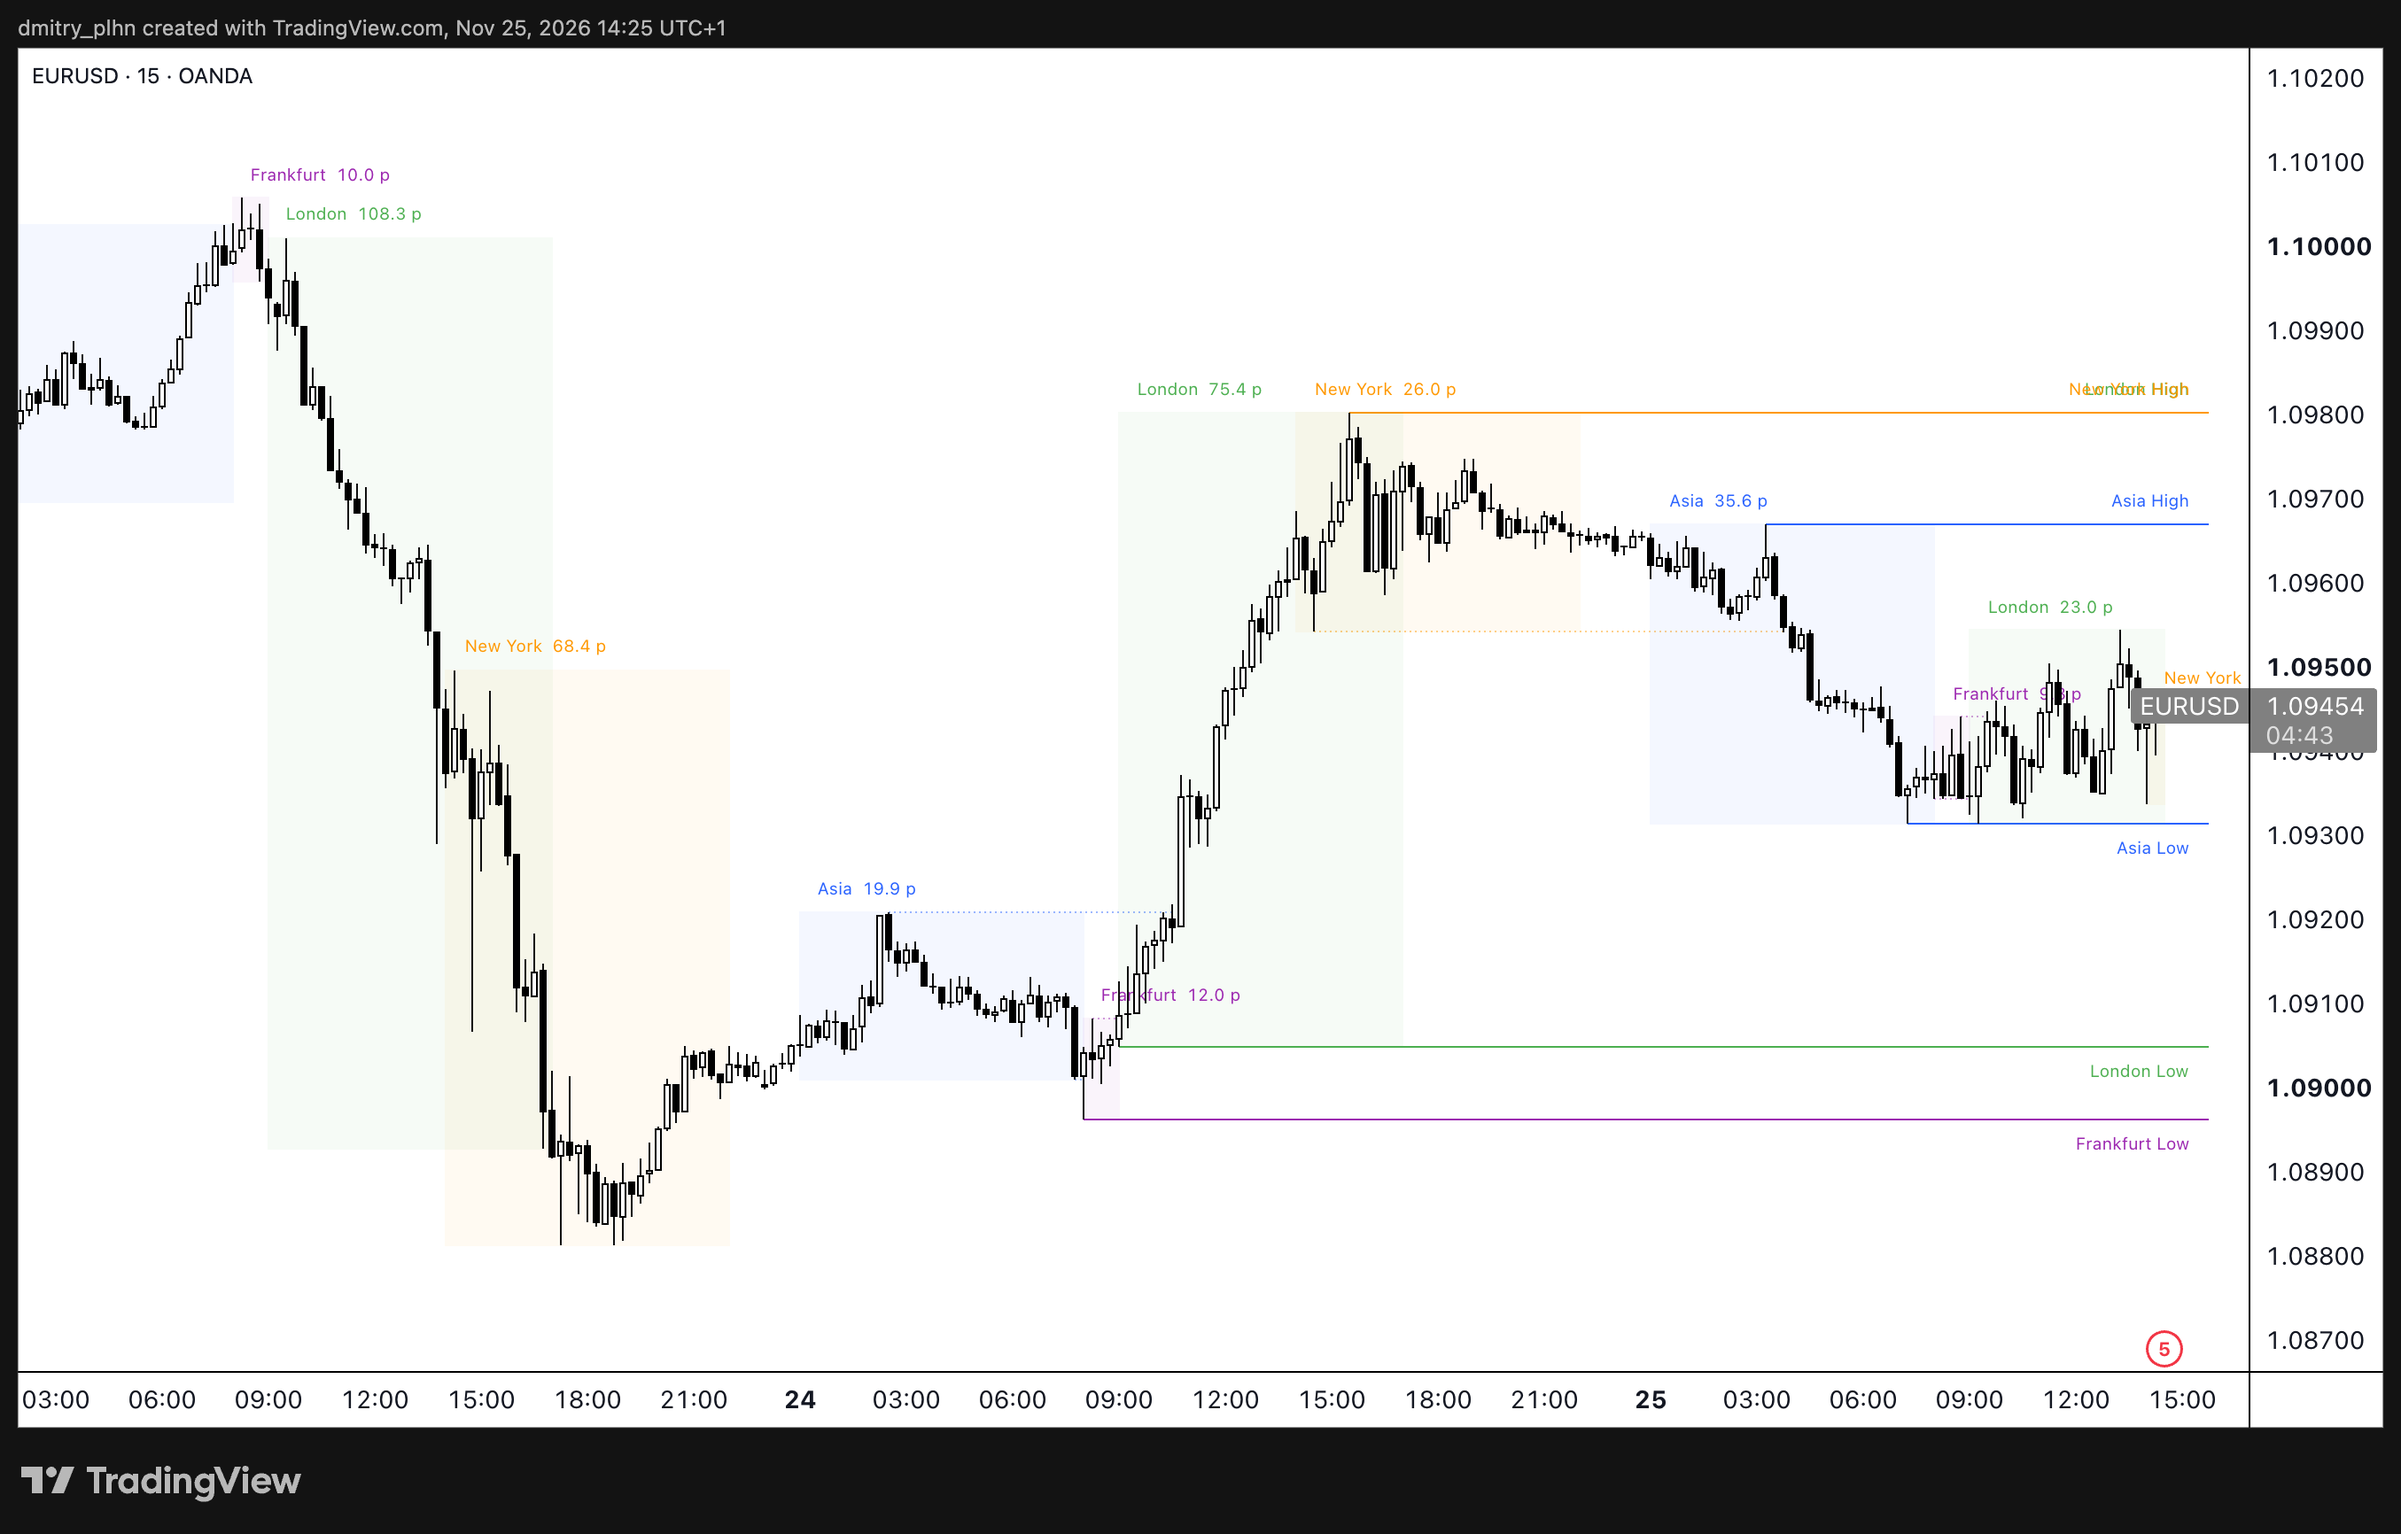
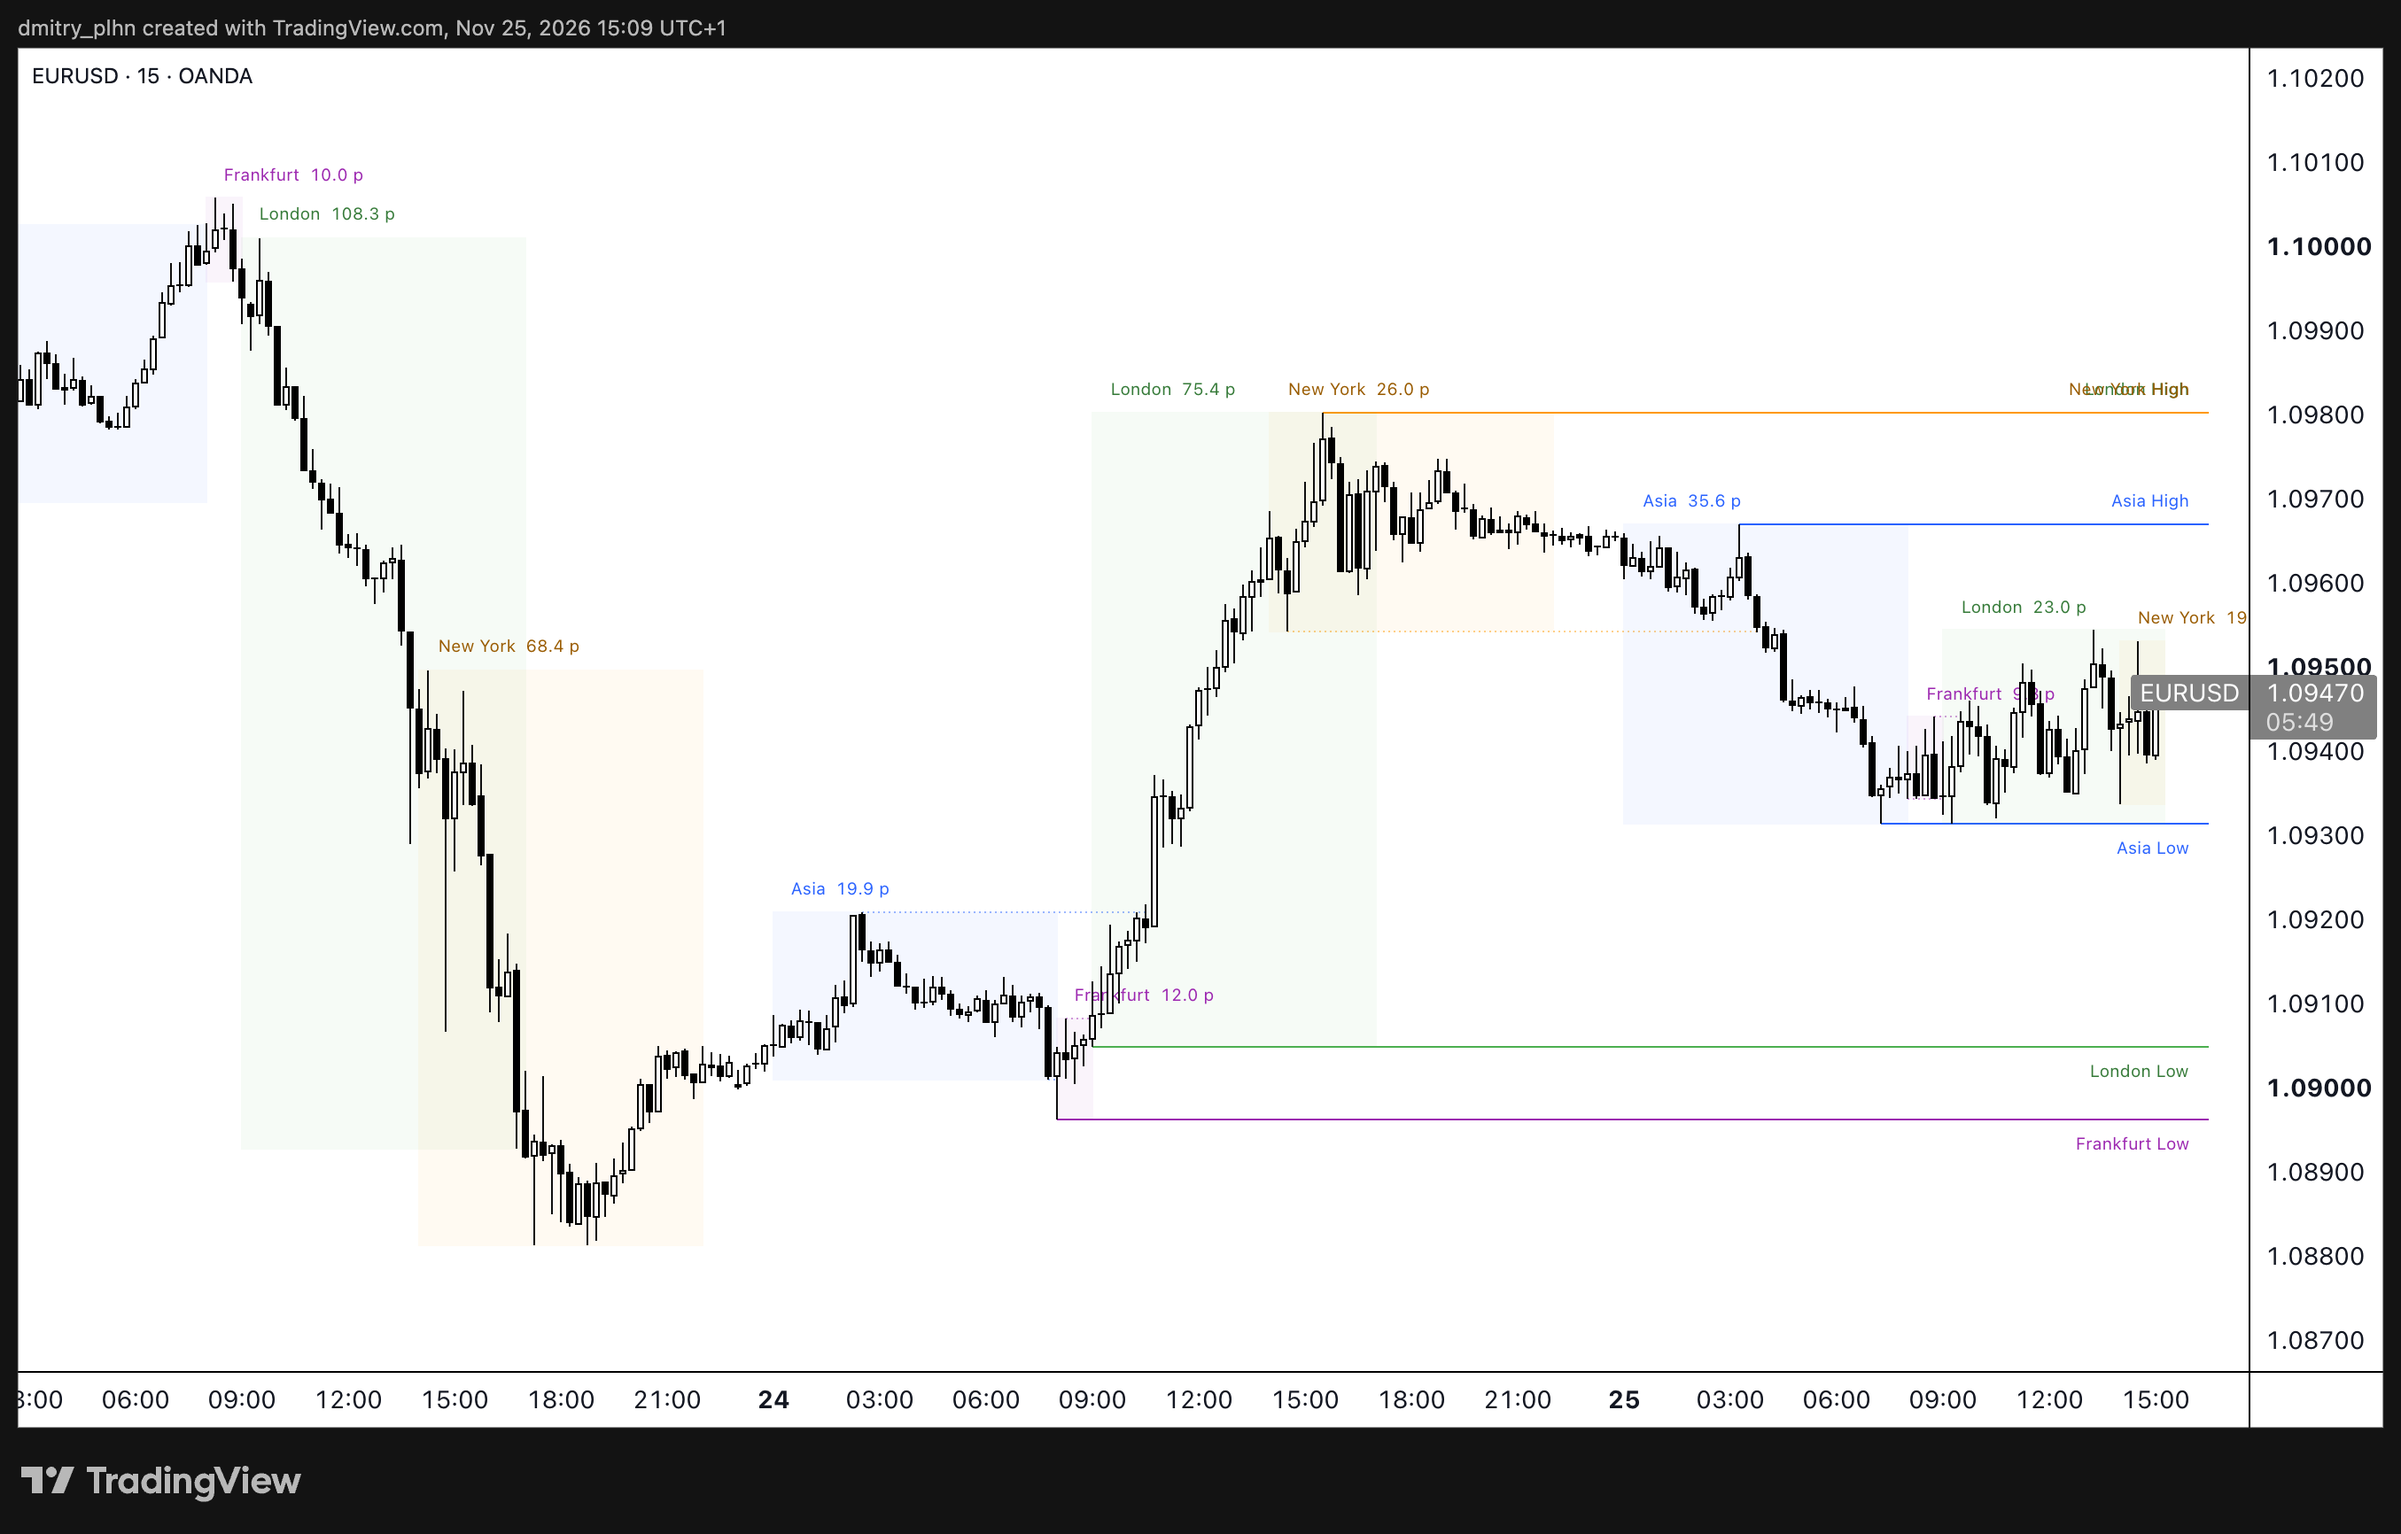
docs: describe the adaptive label text and retake three pictures
Settings reference, FAQ, architecture notes, contributing rules and changelog follow the new default. The verification log records the compile and the contrast measured on a white and on a dark chart. The pictures with captions, level labels and the dashboard are retaken.

diff --git a/docs/TESTING.md b/docs/TESTING.md
@@ -73,7 +73,7 @@ Run before every release. Add the indicator to the chart and walk through the ro
 | 17 | Bar Replay | Drawings build up bar by bar and match the non-replay chart |
 | 18 | *(reserved for alerts, which are parked on the `feature/alerts` branch)* | — |
 | 19 | History = `0` on a 1-minute chart | The script loads without a runtime error |
-| 20 | Light and dark chart themes | All text is readable |
+| 20 | Light and dark chart themes | All text is readable: with *Label text adapts to the chart background* on, every text colour has a contrast of 4.5 : 1 or more against the chart background |
 | 21 | Regular-hours chart (stock or futures, RTH) | The New York session is drawn every day, although no bar separates two days |
 | 22 | *Hide levels farther than* = `2` with weekly and monthly levels on | Distant levels disappear and the price scale stops being stretched |
 | 23 | Level labels on a chart with the default right margin, then *Level labels position* = `After the line` | `At the line end`: every label is complete, over its line or under it for lows. `After the line`: the text follows the line and long labels are cut off by the price scale |
@@ -105,3 +105,5 @@ Run before every release. Add the indicator to the chart and walk through the ro
 | 2026-11-25 | 1.3.0 | Chart matrix row 17 | pass — `OANDA:EURUSD` 15m with every module on: Bar Replay from 24 November 10:00 UTC, 46 single-bar steps to 21:15 UTC. All 26 plot values of the 47 replayed bars equal the normal chart. Every finished drawing of the last two days is identical on both charts (10 boxes, 37 lines, 23 labels), among them the London and New York boxes, the opening range box and the killzone captions that were built during the replay. The running London box at the start had the range the normal chart shows at that bar. After leaving the replay the chart was back at its 70 boxes, 303 lines and 185 labels. |
 | 2026-11-25 | 1.3.0 | Findings of the replay run | In the history before the replay start the VWAP differed from the normal chart by up to 1.1 pips in two sessions: the replay data carries another tick volume on 9 of 203 compared bars, with identical prices. Recorded in the FAQ. When reading values in a replay, let the last bar settle: for a moment it shows the values of its first tick. |
 | 2026-11-25 | 1.3.0 | Chart matrix row 20 | dark: pass; light: readable, but pale — the contrast of every text colour against the chart background was measured from the drawn labels with all level types on. Dark background (`#131722`): the dashboard and the weekday labels switch to light text; the lowest ratios are Frankfurt purple 2.8 : 1 and Asia blue 3.7 : 1, everything else is 4.7 : 1 or more. White background: dashboard 21 : 1, weekday labels 8.6 : 1, Frankfurt 6.3 : 1, Asia 4.9 : 1, but 14 default colours are below 3 : 1 — `PWH` / `PWL` 1.4, `W Open` 1.5, `00:00 Open` 1.8, `PDH` / `PDL` 1.9, New York 2.2, London 2.8, the killzone captions 1.9 to 2.8. Recorded in the FAQ. The dark background was set on the chart canvas of the test layout only. |
+| 2026-11-25 | `main`, after 1.3.0 | Label text adapts to the chart background (new, on by default) | Static checks pass. Editor analysis: 0 errors, 0 warnings. Full compile with **Add to chart**: pass, twice. |
+| 2026-11-25 | `main`, after 1.3.0 | Chart matrix row 20 | pass — `OANDA:EURUSD` 15m with all level types, killzones, captions and the dashboard on; the contrast of all 20 text colours was read from the drawn labels and table cells. White background: 4.5 : 1 to 21 : 1 with the setting on (London `#357A38`, New York `#995B00`, `PWH` `#7F6A27`, `PDH` `#697276`); with it off the colours of 1.3.0 return, 15 of them below 4.5 : 1. Dark background (`#131722`): 4.7 : 1 or more with the setting on (Frankfurt `#B967C7`, Asia `#5381FF`); off, Frankfurt is at 2.8 : 1 and Asia at 3.7 : 1. Lines, boxes and backgrounds keep their colours in every case. |

diff --git a/docs/ARCHITECTURE.md b/docs/ARCHITECTURE.md
@@ -152,6 +152,15 @@ TradingView stores the settings of an indicator by the position of each input. A
 shifts every saved value after it into the wrong field. A new input is declared after the last one, also when
 its group sits earlier in the file — `i_tagSpot` is the example.
 
+### 13. Text is adjusted for contrast, lines are not
+
+A label is printed in the colour of its line or zone, so the eye links the two. The default colours suit dark
+charts; on a white background most of them fell below a contrast of 3 : 1 as text. `inkOf` therefore moves a
+text colour towards black on a light chart, or towards white on a dark one, in steps of a tenth until it reaches
+`INK_CONTRAST` (4.5 : 1, the WCAG mark for normal text), and returns a colour that already reads well unchanged.
+Every place that prints text in a user colour calls it: zone captions, level labels and the session names of
+the dashboard. Lines, boxes and backgrounds use the colour as it is, because their hue is the information.
+
 ## Object budget
 
 | Drawing | Per day, defaults | Per day, everything on |
@@ -190,7 +199,6 @@ levels fold back to their first bar.
 - Every level has its own label. Two levels at one price therefore print two labels over each other.
 - A level label ends at the end of its line, `i_offset` bars after the last bar. It is complete only when the
   right margin of the chart is at least that wide.
-- A label takes the colour of its line or zone. The defaults suit dark charts; on a white background most of
-  them have a contrast below 3 : 1.
+- Lines keep the colours of the inputs. A thin line in a pale default colour can be faint on a white chart.
 - The level list is trimmed by age. With `Keep, faded` a broken level can push out an older level that is still
   live.

diff --git a/docs/FAQ.md b/docs/FAQ.md
@@ -92,13 +92,16 @@ hides above the session timeframe limit.
 The default VWAP colour is yellow. It reads well on a dark chart and is faint on a light one. Pick a darker colour
 in *⑨ Session VWAP → Colour*.
 
-## Some labels are pale on a light chart
+## The text of a label is a shade darker than its line
 
-A label is printed in the colour of its line or zone, and most default colours are chosen for dark charts. On a
-white background the yellow, orange, light green and grey ones lose contrast: `PWH`, `W Open`, `00:00 Open`,
-`PDH`, the New York and London captions, the killzone names. Asia blue, Frankfurt purple, the weekday labels and
-the dashboard stay clear. Every one of these colours has its own input next to the line it belongs to — pick
-darker shades there. On a dark chart all default colours read well; Frankfurt purple is the dimmest.
+That is on purpose. A label takes the colour of its line or zone, and most default colours are chosen for dark
+charts: on a white background yellow, orange, light green and grey text is hard to read. With *⑫ Style → Label
+text adapts to the chart background* on, which is the default, such a colour is darkened on a light chart and
+lightened on a dark one until the text reads well. Lines and zones keep the colour you chose. Switch the setting
+off to print text in the exact colour.
+
+A thin line in a pale colour can still be faint on a white chart. Pick a darker colour for it in the input next
+to the line it belongs to.
 
 ## VWAP in Bar Replay is not exactly the VWAP of the live chart
 

diff --git a/CHANGELOG.md b/CHANGELOG.md
@@ -13,11 +13,25 @@ How versions are counted for an indicator:
 
 ## [Unreleased]
 
+Label text that reads on a white chart as well as on a dark one.
+
 ### Added
 
-- FAQ entries: labels that are pale on a light chart, and VWAP in Bar Replay.
+- *⑫ Style → Label text adapts to the chart background*, on by default. Text in a colour that would be hard to read
+  on the chart background is darkened on a light chart and lightened on a dark one, up to a contrast of 4.5 : 1.
+- FAQ entries: why label text can be a shade darker than its line, and VWAP in Bar Replay.
 - The verification log covers the last open rows of the chart matrix: the US clock change, Bar Replay, light and
   dark charts.
+
+### Changed
+
+- Captions, level labels and the session names of the dashboard are printed in the adjusted colour. Lines, boxes
+  and backgrounds are unchanged. Switch the new setting off to get the exact colours back.
+
+### Fixed
+
+- On a white chart most default label colours were too pale to read comfortably (`PWH` 1.4 : 1, `PDH` 1.9 : 1, New
+  York 2.2 : 1, London 2.8 : 1); on a dark chart Frankfurt purple was at 2.8 : 1.
 
 ## [1.3.0] - 2026-11-25
 

diff --git a/docs/SETTINGS.md b/docs/SETTINGS.md
@@ -177,3 +177,4 @@ range.
 | Price in level labels | off | Appends the price to the label. |
 | Hide levels farther than, × ADR (0 = never) | `0.0` | Levels farther from the last price than this many average daily ranges are not drawn. Use it when a distant weekly or monthly level squeezes the candles. Session levels fold back to the bar where they formed. |
 | Level labels position | `At the line end` | `At the line end` prints the text over the right end of the line — under it for lows — inside the chart, where the price scale cannot cut it off. `After the line` prints it to the right of the line; that needs a right margin wide enough for the whole text. |
+| Label text adapts to the chart background | on | A label takes the colour of its line or zone. When this is on, a colour that would be hard to read on the chart background is darkened on a light chart and lightened on a dark one until its contrast reaches 4.5 : 1 — for the text only: captions, level labels and the session names in the dashboard. Lines and zones keep their colour. Switch it off to print text in the exact colour. |

diff --git a/README.ru.md b/README.ru.md
@@ -164,7 +164,6 @@ NY PM 13:30 – 16:00. Это общепринятые значения, а не
 - Статистика: как часто одна сессия пробивает диапазон другой
 - Одна подпись для уровней с одинаковой ценой вместо двух подписей друг на друге
 - Когда список уровней заполнен, сначала убирать пробитые уровни, а не действующие
-- Текст подписей, который остаётся контрастным на светлом графике
 - Алерты на начало сессии, пробой уровня и пробой opening range — модуль написан и проверен на живом графике, он
   лежит в ветке `feature/alerts` до одного из следующих релизов
 

diff --git a/README.md b/README.md
@@ -162,7 +162,6 @@ verification log in [docs/TESTING.md](docs/TESTING.md) lists what has been check
 - Statistics: how often one session breaks the range of another
 - One label for levels that share a price, instead of two labels printed over each other
 - When the level list is full, drop broken levels before live ones
-- Label text that keeps its contrast on light charts
 - Alerts for session starts, broken levels and opening range breakouts — built and tried on a live chart, kept on
   the `feature/alerts` branch until a later release
 

diff --git a/CONTRIBUTING.md b/CONTRIBUTING.md
@@ -75,6 +75,7 @@ with these project rules.
 - Nothing new may be drawn on a bar outside `inWindow`.
 - Respect the timeframe gates: if a module cannot be right on a timeframe, it must draw nothing.
 - Count your drawings. The budget is 500 lines, 500 labels and 500 boxes for the whole script.
+- Print text in `inkOf(colour)`, not in the colour itself, so it stays readable on light and dark charts.
 
 ## Screenshots
 
